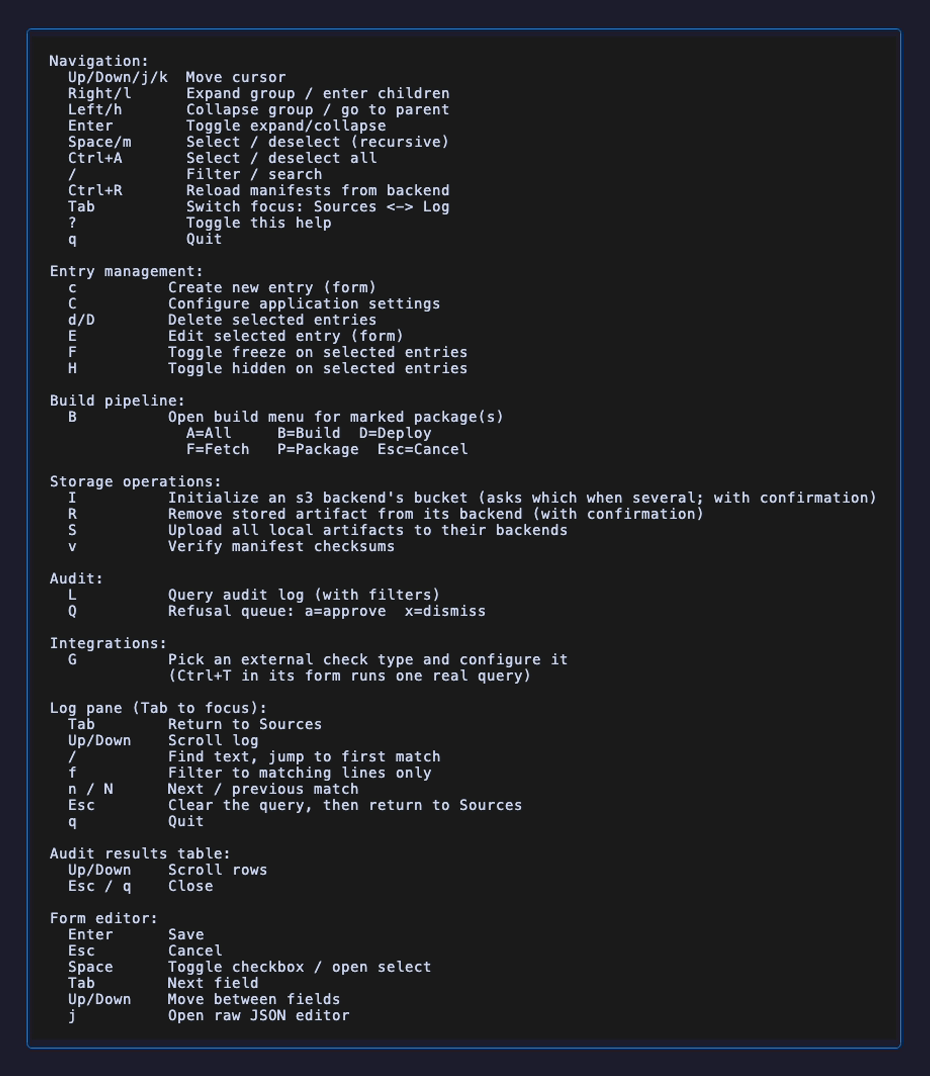
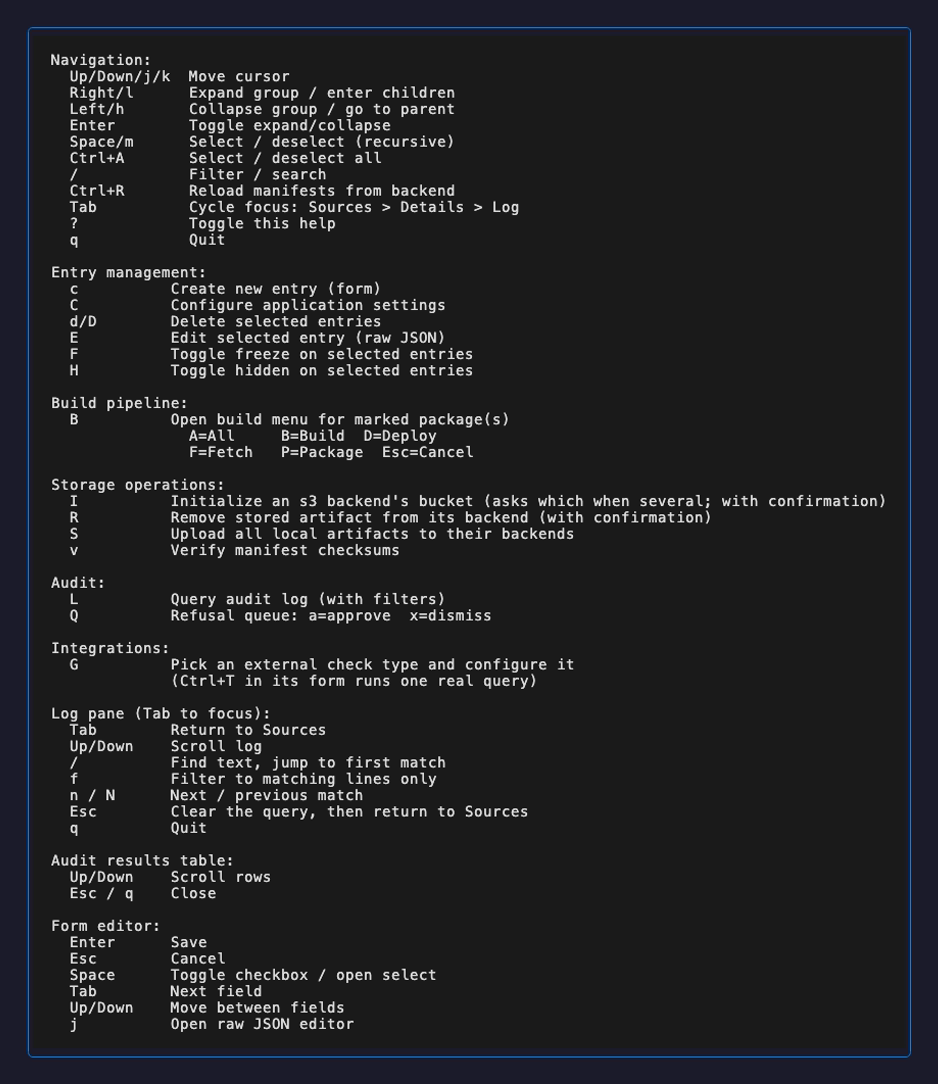
fix: TUI audit query, help text and post-save cursor match what the TUI does
Event types come from audit.EventTypes(), held to the package's declared constants by a go/ast test, so the form cannot drift from what the TUI records the way the old literal did. The cursor restore runs on Esc too, since Esc rebuilt the tree collapsed the same way.

Changed region(s): [[0.0312, 0.0, 0.9667, 0.9814], [0.0, 0.0307, 0.0312, 0.9507], [0.5301, 0.184, 0.5613, 0.2147]]

diff --git a/internal/tui/tui_test.go b/internal/tui/tui_test.go
@@ -1991,3 +1991,72 @@ func TestDetailsPaneNamesBackendNotS3OnLocalInstall(t *testing.T) {
 		t.Errorf("details pane does not print a file:// object URI:\n%s", v)
 	}
 }
+
+func TestAuditEventOptionsOfferTUIEvents(t *testing.T) {
+	opts := auditEventOptions()
+	if len(opts) == 0 || opts[0] != "" {
+		t.Fatalf("first option = %q, want the empty \"any\" option", opts)
+	}
+	for _, want := range []audit.EventType{audit.EventEdit, audit.EventHide, audit.EventFreeze} {
+		if !contains(opts, string(want)) {
+			t.Errorf("Event type options %v lack %q, which the TUI records", opts, want)
+		}
+	}
+}
+
+func TestHelpTextDescribesEditAndTab(t *testing.T) {
+	for _, want := range []string{"E          Edit selected entry (raw JSON)", "Tab          Cycle focus: Sources > Details > Log"} {
+		if !strings.Contains(helpText, want) {
+			t.Errorf("helpText lacks %q", want)
+		}
+	}
+}
+
+// TestJSONEditSaveKeepsCursorOnPackage drives E and Ctrl+S on a package
+// header below an expanded type group: the rebuilt tree must land the cursor
+// back on that package, not on whatever row now holds the old index.
+func TestJSONEditSaveKeepsCursorOnPackage(t *testing.T) {
+	const pkgName = "@example-corp/widget-cli"
+	store := manifest.NewLocalStore(t.TempDir())
+	ctx := t.Context()
+	_ = store.AddVersion(ctx, manifest.TypeCargo, "serde", manifest.VersionEntry{Version: "1.0.0"})
+	_ = store.AddVersion(ctx, manifest.TypeNpm, "lodash", manifest.VersionEntry{Version: "4.17.21"})
+	_ = store.AddVersion(ctx, manifest.TypeNpm, pkgName, manifest.VersionEntry{Version: "1.0.0"})
+
+	m := appModel{store: store, log: &logPaneModel{}, focus: focusSources}
+	m.sources = newSourcesModel(BuildTree(store, nil))
+	m.details = newDetailsModel(store, &config.Config{})
+	if !m.sources.CursorToNode(manifest.TypeNpm, pkgName, "") {
+		t.Fatalf("%s header not in the tree", pkgName)
+	}
+
+	next, _ := m.handleKey(tea.KeyMsg{Type: tea.KeyRunes, Runes: []rune("E")})
+	m = next.(appModel)
+	if m.popup.kind != popupJSONEdit {
+		t.Fatalf("E opened popup kind %v, want the JSON editor", m.popup.kind)
+	}
+	m.popup.jsonTextarea.SetValue(`{
+		"config_version": 1,
+		"name": "` + pkgName + `",
+		"type": "npm",
+		"versions": [{"version": "1.0.0"}, {"version": "1.1.0"}]
+	}`)
+	next, _ = m.handleKey(tea.KeyMsg{Type: tea.KeyCtrlS})
+	m = next.(appModel)
+	if m.popup.Active() {
+		t.Fatalf("Ctrl+S left the editor open: %s", m.popup.jsonError)
+	}
+
+	sel := m.sources.Selected()
+	if sel == nil || sel.EntryType != manifest.TypeNpm || sel.Name != pkgName || sel.Version != "" {
+		t.Fatalf("cursor after save on %+v, want the %s package header", sel, pkgName)
+	}
+	if len(sel.Children) != 2 {
+		t.Errorf("edited package has %d versions, want 2", len(sel.Children))
+	}
+	for _, row := range m.sources.flatList {
+		if row.depth == 0 && row.node.EntryType == manifest.TypeNpm && !row.node.Expanded {
+			t.Error("npm/ group collapsed after save")
+		}
+	}
+}

diff --git a/internal/tui/app.go b/internal/tui/app.go
@@ -497,6 +497,12 @@ func (m appModel) handlePopupKey(msg tea.KeyMsg) (tea.Model, tea.Cmd) {
 		dismissed, cmd := m.popup.HandleJSONOverlayKey(msg, applyFn)
 		if dismissed {
 			m.sources.Refresh(m.store, m.statuses)
+			// Refresh rebuilds the tree collapsed and keeps only the row
+			// index, which then points at an unrelated row. A version-scoped
+			// save may have renamed its version, hence the header fallback.
+			if !m.sources.CursorToNode(m.popup.editType, m.popup.editName, m.popup.editVersion) {
+				m.sources.CursorToNode(m.popup.editType, m.popup.editName, "")
+			}
 			m.syncDetails()
 			// Unlike popupForm, where the overlay is a sub-mode the form
 			// returns to, this popup has nothing behind the textarea. Leaving
@@ -975,7 +981,7 @@ func (m appModel) handleLogKey(msg tea.KeyMsg) (tea.Model, tea.Cmd) {
 	return m, nil
 }
 
-// toggleFocus switches keyboard focus between Sources and Log panes.
+// toggleFocus cycles keyboard focus Sources > Details > Log > Sources.
 func (m appModel) toggleFocus() appModel {
 	m.sources.focused = false
 	m.details.focused = false
@@ -1015,7 +1021,7 @@ func (m *appModel) buildAuditPopup() popupModel {
 		nextPopup: next,
 		formFields: []formField{
 			{Label: "Event type", Value: "", Select: true,
-				Options: []string{"", "fetch", "build", "create", "delete", "cache"}},
+				Options: auditEventOptions()},
 			{Label: "Pkg type", Value: "", Select: true,
 				Options: auditTypeOptions()},
 			{Label: "Pkg name", Value: ""},
@@ -1411,6 +1417,19 @@ var createTypeOptions = []string{
 	manifest.TypeNpm,
 	manifest.TypePypi,
 	manifest.TypeRubygems,
+}
+
+// auditEventOptions is the event-type filter for the audit query form, with
+// an empty first entry meaning "any event". audit.EventTypes supplies the
+// rest, so an event the TUI records is always one the form can select.
+func auditEventOptions() []string {
+	types := audit.EventTypes()
+	out := make([]string, 0, len(types)+1)
+	out = append(out, "")
+	for _, t := range types {
+		out = append(out, string(t))
+	}
+	return out
 }
 
 // auditTypeOptions is the package-type filter for the audit query form, with an

diff --git a/internal/audit/audit_test.go b/internal/audit/audit_test.go
@@ -3,8 +3,12 @@ package audit
 import (
 	"context"
 	"fmt"
+	"go/ast"
+	"go/parser"
+	"go/token"
 	"os"
 	"path/filepath"
+	"strconv"
 	"strings"
 	"sync"
 	"testing"
@@ -647,5 +651,56 @@ func TestServedObjectColumns(t *testing.T) {
 func TestServedRefusesAnEmptyIdentity(t *testing.T) {
 	if _, err := tempDB(t).Served(context.Background(), "", time.Time{}); err == nil {
 		t.Error("Served with no identity returned no error; it would answer for every unbound request at once")
+	}
+}
+
+// TestEventTypesListsEveryConstant parses the package source so a constant
+// declared and left out of EventTypes fails here rather than going missing
+// from the TUI audit query form.
+func TestEventTypesListsEveryConstant(t *testing.T) {
+	listed := make(map[EventType]bool)
+	for _, et := range EventTypes() {
+		listed[et] = true
+	}
+	files, err := filepath.Glob("*.go")
+	if err != nil {
+		t.Fatal(err)
+	}
+	fset := token.NewFileSet()
+	declared := 0
+	for _, f := range files {
+		if strings.HasSuffix(f, "_test.go") {
+			continue
+		}
+		file, err := parser.ParseFile(fset, f, nil, 0)
+		if err != nil {
+			t.Fatalf("parse %s: %v", f, err)
+		}
+		for _, decl := range file.Decls {
+			gd, ok := decl.(*ast.GenDecl)
+			if !ok || gd.Tok != token.CONST {
+				continue
+			}
+			for _, spec := range gd.Specs {
+				vs := spec.(*ast.ValueSpec)
+				if id, ok := vs.Type.(*ast.Ident); !ok || id.Name != "EventType" {
+					continue
+				}
+				for i := range vs.Names {
+					lit, ok := vs.Values[i].(*ast.BasicLit)
+					if !ok {
+						continue
+					}
+					declared++
+					v, _ := strconv.Unquote(lit.Value)
+					if !listed[EventType(v)] {
+						t.Errorf("%s: %s = %q is missing from EventTypes()", f, vs.Names[i].Name, v)
+					}
+				}
+			}
+		}
+	}
+	if declared != len(listed) {
+		t.Errorf("source declares %d EventType constants, EventTypes() lists %d distinct", declared, len(listed))
 	}
 }

diff --git a/internal/tui/sources.go b/internal/tui/sources.go
@@ -467,6 +467,49 @@ func (m *sourcesModel) CursorToEntry(entryType, name string) bool {
 	return false
 }
 
+// CursorToNode moves the cursor to the package header for entryType/name, or
+// to its version leaf when version is set, expanding the groups above it.
+// Returns false, leaving the cursor where it was, when no such row exists.
+func (m *sourcesModel) CursorToNode(entryType, name, version string) bool {
+	roots := m.roots()
+	var target *TreeNode
+	for i := range roots {
+		if roots[i].EntryType != entryType {
+			continue
+		}
+		for j := range roots[i].Children {
+			pkg := &roots[i].Children[j]
+			if version == "" {
+				if pkg.Name == name {
+					roots[i].Expanded = true
+					target = pkg
+				}
+				continue
+			}
+			for k := range pkg.Children {
+				leaf := &pkg.Children[k]
+				if leaf.Name == name && leaf.Version == version {
+					roots[i].Expanded = true
+					pkg.Expanded = true
+					target = leaf
+				}
+			}
+		}
+	}
+	if target == nil {
+		return false
+	}
+	m.flatList = flatten(roots, m.filter)
+	for i, row := range m.flatList {
+		if row.node == target {
+			m.cursor = i
+			m.ensureCursorVisible()
+			return true
+		}
+	}
+	return false
+}
+
 // ToggleExpand expands or collapses the selected group node.
 func (m *sourcesModel) ToggleExpand() {
 	row := m.flatList[m.cursor]

diff --git a/internal/audit/audit.go b/internal/audit/audit.go
@@ -109,6 +109,22 @@ const (
 // EventOverride is an override requested, approved or rejected.
 const EventOverride EventType = "override"
 
+// EventTypes returns every EventType the package declares, so a caller
+// offering a choice of them (the TUI audit query form) lists a new type
+// without an edit of its own. TestEventTypesListsEveryConstant fails when a
+// constant is declared and left out of this list.
+func EventTypes() []EventType {
+	return []EventType{
+		EventInit, EventReset, EventStatus, EventFetch, EventBuild,
+		EventPackage, EventUpload, EventSync, EventCreate, EventDelete,
+		EventRepair, EventRefresh, EventHide, EventFreeze, EventEdit,
+		EventShow, EventPolicy, EventRevet,
+		EventServeStart, EventServeStop,
+		EventServeFetch, EventCache,
+		EventDenied, EventOverride, EventInventory, EventQueue,
+	}
+}
+
 // Status values for EventCache. They name the proxy outcome, so an operator
 // asking which artifacts came from upstream can tell that from an artifact the
 // cache answered and from the two refusals that write the same type.

diff --git a/internal/tui/popup.go b/internal/tui/popup.go
@@ -209,7 +209,7 @@ const helpText = `Navigation:
   Ctrl+A       Select / deselect all
   /            Filter / search
   Ctrl+R       Reload manifests from backend
-  Tab          Switch focus: Sources <-> Log
+  Tab          Cycle focus: Sources > Details > Log
   ?            Toggle this help
   q            Quit
 
@@ -217,7 +217,7 @@ Entry management:
   c          Create new entry (form)
   C          Configure application settings
   d/D        Delete selected entries
-  E          Edit selected entry (form)
+  E          Edit selected entry (raw JSON)
   F          Toggle freeze on selected entries
   H          Toggle hidden on selected entries
 

diff --git a/docs/quarantine/tui.md b/docs/quarantine/tui.md
@@ -182,7 +182,7 @@ Both operations record audit events with actor attribution the same way the JSON
 
 The TUI has a dedicated audit-query view. Press `L` to open the query form (event type, package type, package name, client IP, limit), fill it in and press `Enter`. The results open in a table that replaces the screen; `Up`/`Down` scroll it and `Esc` or `q` closes it. The Log pane records only how many events the query returned.
 
-For the scenarios in this walkthrough, set the package name to `@example-corp/widget-cli` and leave the event type empty: the form's event-type list does not offer `edit`. Each save shows as one `edit` row. The table does not show the JSON diff each save recorded.
+For the scenarios in this walkthrough, set the package name to `@example-corp/widget-cli`. Each save shows as one `edit` row; pick `edit` as the event type to hide the `create` rows the import wrote. The table does not show the JSON diff each save recorded.
 
 ![The audit results table for @example-corp/widget-cli: three edit rows, one per scenario save, above two create rows, with timestamp, event, type, name and status columns](../images/tui-audit-table.png)
 
